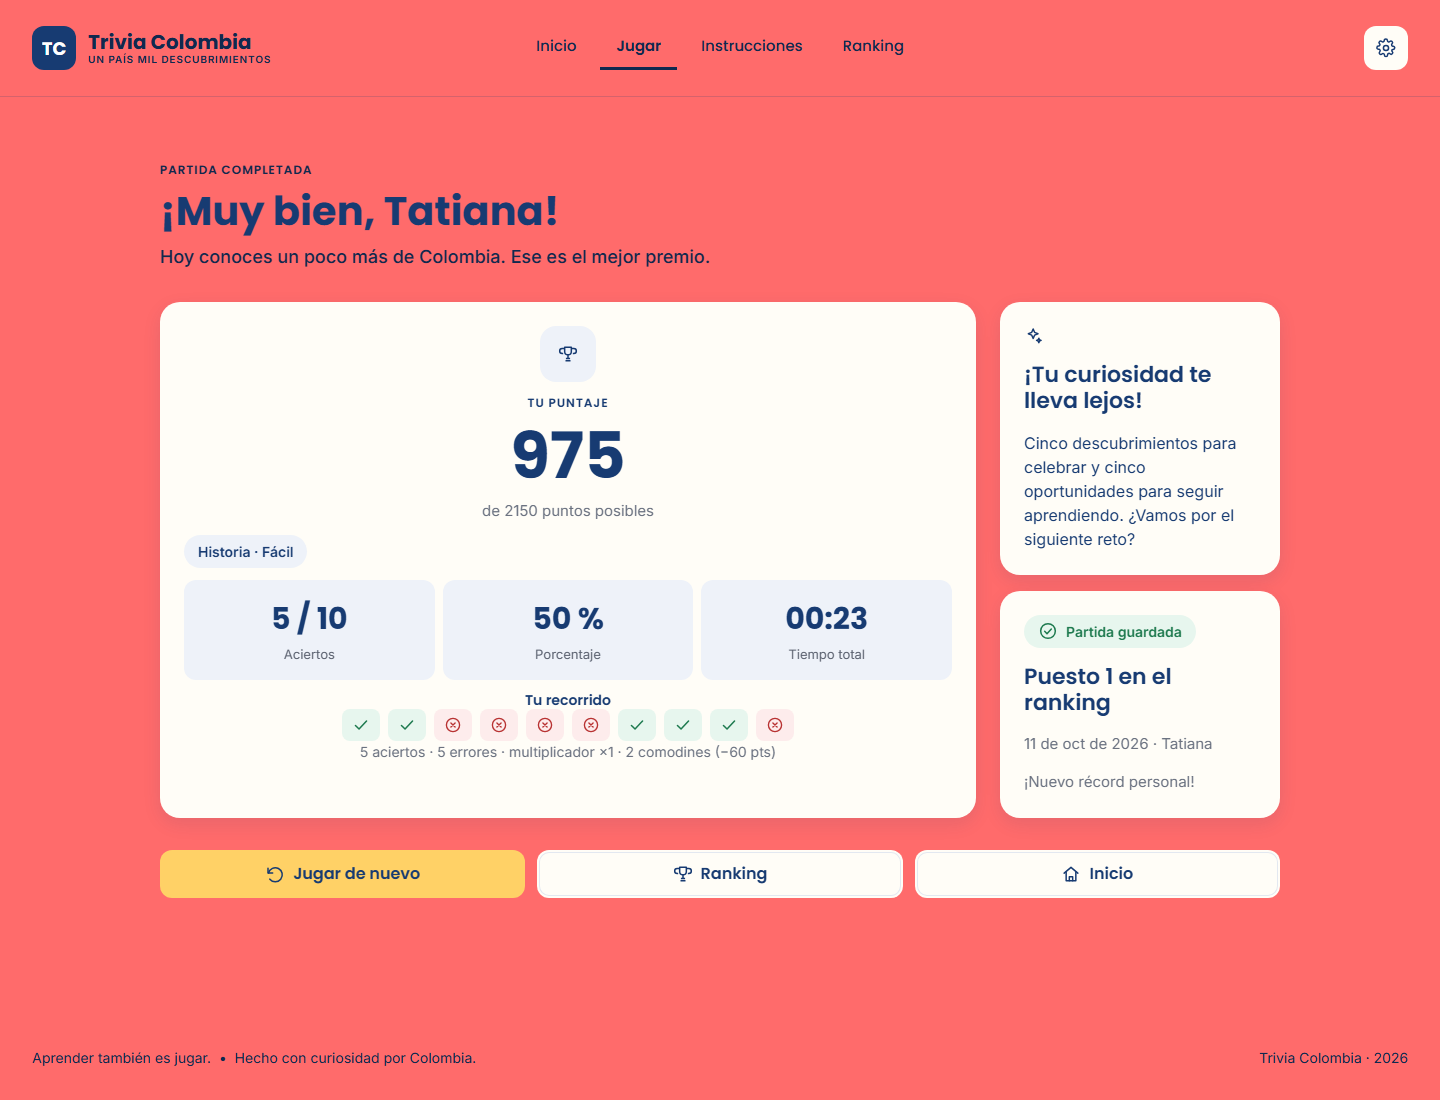
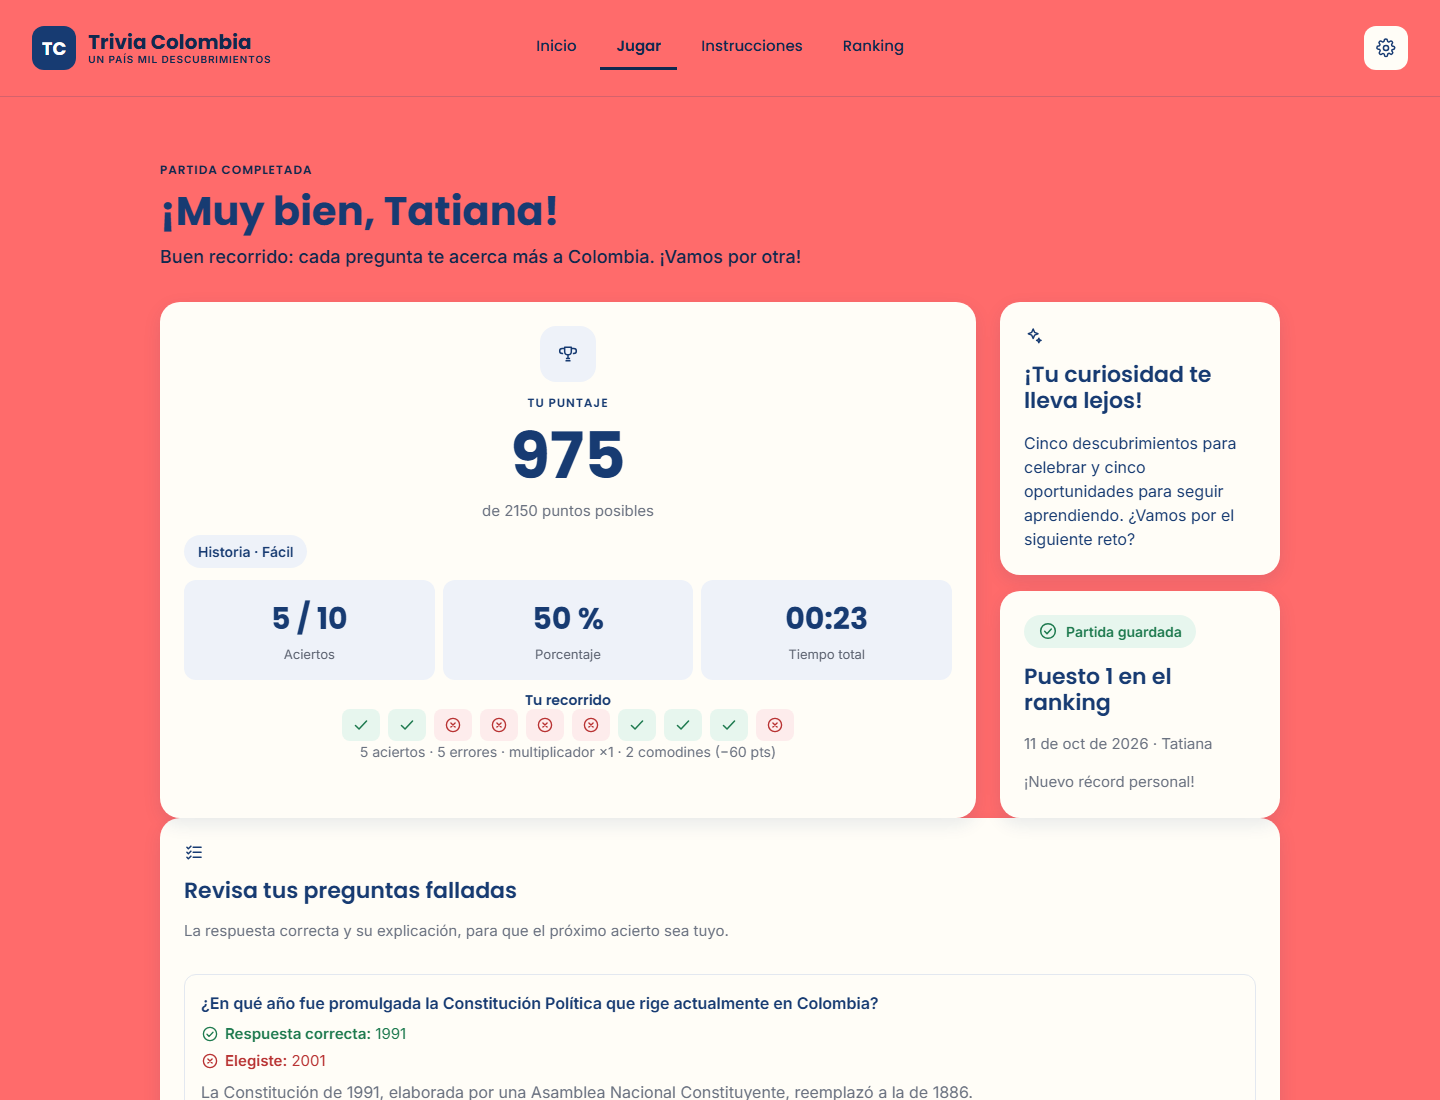
completar resultados, ranking y configuración

Changed region(s): [[0.0312, 0.7418, 0.9375, 1.0], [0.125, 0.2164, 0.5625, 0.2473]]

diff --git a/js/ui.js b/js/ui.js
@@ -48,6 +48,19 @@ const UI = {
     return palabras[numero] ?? String(numero);
   },
 
+  /**
+   * Mensaje motivador acorde al porcentaje de aciertos (variantes de texto no
+   * definidas en el mockup, registradas en docs/diseno/notas-mockups.md).
+   * Para el tramo "bueno" se conserva la frase del mockup.
+   */
+  mensajeDesempeno(porcentaje) {
+    if (porcentaje === 100) return '¡Impecable! Diez de diez: conoces Colombia como poquita gente.';
+    if (porcentaje >= 70) return 'Hoy conoces un poco más de Colombia. Ese es el mejor premio.';
+    if (porcentaje >= 40) return 'Buen recorrido: cada pregunta te acerca más a Colombia. ¡Vamos por otra!';
+    if (porcentaje > 0) return 'Fallar también enseña: revisa tus preguntas y vuelve a retar al país.';
+    return 'Hoy no sumaste aciertos, pero tu próxima pregunta ya te está esperando. ¡Inténtalo de nuevo!';
+  },
+
   /* ---------- 3. Configuración de partida ---------- */
 
   /** Tarjetas-opción de categoría (radio-card del mockup). */
@@ -325,7 +338,7 @@ const UI = {
     const porcentaje = resumen.total > 0 ? Math.round((resumen.aciertos / resumen.total) * 100) : 0;
 
     setTexto('titulo-resultado', `¡Muy bien, ${resumen.jugador}!`);
-    setTexto('resultado-mensaje', 'Hoy conoces un poco más de Colombia. Ese es el mejor premio.');
+    setTexto('resultado-mensaje', this.mensajeDesempeno(porcentaje));
     setTexto('resultado-puntaje', String(resumen.puntaje));
     setTexto('resultado-maximo', `de ${resumen.maximo} puntos posibles`);
     setTexto('resultado-combinacion', `${resumen.categoria === 'todas' ? 'Todas las categorías' : categoriaInfo.nombre} · ${dificultadInfo.nombre}`);
@@ -352,6 +365,33 @@ const UI = {
       ? ` · ${resumen.comodinesUsados} ${resumen.comodinesUsados === 1 ? 'comodín' : 'comodines'} (−${resumen.penalizacionComodines} pts)`
       : '';
     setTexto('resultado-desglose', `${resumen.aciertos} aciertos · ${errores} errores · multiplicador ×${mult}${comodines}`);
+
+    // Revisión de preguntas falladas: usa el detalle que el motor dejó en el
+    // resumen (id, enunciado, elegida, correcta) + el banco PREGUNTAS.
+    // Si no hay falladas (partida perfecta) la tarjeta queda oculta.
+    const falladasTarjeta = document.getElementById('resultado-falladas-tarjeta');
+    const falladasContenedor = document.getElementById('resultado-falladas');
+    const falladas = Array.isArray(resumen.falladas) ? resumen.falladas : [];
+    if (falladasTarjeta && falladasContenedor) {
+      falladasTarjeta.hidden = falladas.length === 0;
+      falladasContenedor.innerHTML = falladas.map((fallada) => {
+        const pregunta = PREGUNTAS.find((p) => p.id === fallada.id);
+        const opciones = pregunta ? pregunta.opciones : [];
+        const textoDe = (indice) => (typeof opciones[indice] === 'string' ? this.esc(opciones[indice]) : `Opción ${Number(indice) + 1}`);
+        const agotado = fallada.elegida === null || fallada.elegida === undefined;
+        const explicacion = pregunta && pregunta.explicacion ? `<p class="fallada__explicacion">${this.esc(pregunta.explicacion)}</p>` : '';
+        return `
+          <li class="fallada">
+            <p class="fallada__enunciado">${this.esc(fallada.enunciado)}</p>
+            <p class="fallada__opciones">
+              <span class="fallada__correcta">${this.icono('i-circulo-check')}<span><strong>Respuesta correcta:</strong> ${textoDe(fallada.correcta)}</span></span>
+              <span class="fallada__elegida">${this.icono('i-circulo-x')}<span><strong>${agotado ? 'Sin respuesta' : 'Elegiste'}:</strong> ${agotado ? 'se agotó el tiempo' : textoDe(fallada.elegida)}</span></span>
+            </p>
+            ${explicacion}
+          </li>`;
+      }).join('');
+    }
+
     setTexto('resultado-mensaje-lateral',
       `${this.enPalabra(resumen.aciertos)} descubrimientos para celebrar y ${this.enPalabra(errores).toLowerCase()} oportunidades para seguir aprendiendo. ¿Vamos por el siguiente reto?`);
     setTexto('resultado-puesto', resumen.puesto ? `Puesto ${resumen.puesto} en el ranking` : 'Fuera del top 10 del ranking');

diff --git a/tests/e2e-cuerpo.js b/tests/e2e-cuerpo.js
@@ -258,6 +258,10 @@
     pasar('Puesto en el ranking', texto('#resultado-puesto').includes('Puesto'), texto('#resultado-puesto'));
     pasar('Récord personal', texto('#resultado-record').includes('récord'), texto('#resultado-record'));
     pasar('Fecha y jugador', texto('#resultado-fecha').includes('Tatiana'), texto('#resultado-fecha'));
+    pasar('Mensaje motivador acorde al desempeño (50 %)', texto('#resultado-mensaje').includes('pregunta'), texto('#resultado-mensaje'));
+    pasar('Revisión de falladas visible con las 5 incorrectas', visible('#resultado-falladas-tarjeta') && $$('#resultado-falladas .fallada').length === 5, `${$$('#resultado-falladas .fallada').length} revisadas`);
+    pasar('Cada fallada muestra correcta y explicación', $$('#resultado-falladas .fallada__correcta').length === 5 && $$('#resultado-falladas .fallada__explicacion').every((p) => p.textContent.trim().length > 10));
+    pasar('La pregunta agotada aparece como "Sin respuesta"', texto('#resultado-falladas').includes('Sin respuesta'), '');
 
     /* Modo captura (window.__E2E_CAPTURA): la partida terminada queda visible
        en Resultado y aquí se corta el recorrido. */
@@ -297,6 +301,22 @@
     pasar('Salir cancela y vuelve a configuración', visible('[data-pantalla="configuracion-partida"]') && J.estado === null);
     await cambiarHash('#ranking');
     pasar('La partida cancelada NO se guardó', $$('#ranking-tabla tbody tr').length === 1, `${$$('#ranking-tabla tbody tr').length} filas`);
+
+    /* ---- 16. Configuración general ---- */
+    paso('16. Configuración general');
+    await cambiarHash('#configuracion');
+    pasar('Pantalla de configuración visible', visible('[data-pantalla="configuracion"]'));
+    pasar('Sonido activado y reflejado en el interruptor', $('#pref-sonido').checked === true && texto('#sonido-estado') === 'Activado', texto('#sonido-estado'));
+    $('#tema-oscuro').click();
+    await esperar(60);
+    pasar('Cambiar a tema oscuro aplica data-tema', document.documentElement.getAttribute('data-tema') === 'oscuro' && $('#tema-oscuro').checked, document.documentElement.getAttribute('data-tema'));
+    $('#pref-sonido').click();
+    await esperar(60);
+    pasar('Desactivar sonido actualiza interruptor y estado', $('#pref-sonido').checked === false && texto('#sonido-estado') === 'Desactivado', texto('#sonido-estado'));
+    pasar('Resumen de preferencias actualizado', texto('#preferencias-resumen').includes('desactivado') && texto('#preferencias-resumen').includes('oscuro'), texto('#preferencias-resumen'));
+    click($('[data-pantalla="configuracion"] aside [data-ir="inicio"]'));
+    await esperar(150);
+    pasar('Navegación de regreso al inicio desde Configuración', visible('[data-pantalla="inicio"]'));
 
     finalizar();
   };

diff --git a/css/styles.css b/css/styles.css
@@ -771,6 +771,25 @@ table { border-collapse: collapse; }
 .recorrido__item--error { background: var(--tinte-rojo); color: var(--error-texto); }
 .recorrido__item .icono { width: 18px; height: 18px; }
 
+/* Revisión de preguntas falladas (Resultado): enunciado, correcta, elegida y explicación */
+.lista-falladas { list-style: none; margin: var(--esp-4) 0 0; padding: 0; display: grid; gap: var(--esp-3); }
+.fallada {
+  display: grid;
+  gap: var(--esp-2);
+  min-width: 0;
+  padding: var(--esp-4);
+  border: 1px solid var(--borde);
+  border-radius: var(--radio-mini);
+  background: var(--superficie);
+}
+.fallada__enunciado { margin: 0; font-weight: 600; overflow-wrap: anywhere; }
+.fallada__opciones { display: grid; gap: var(--esp-1); margin: 0; font-size: 0.9375rem; }
+.fallada__correcta, .fallada__elegida { display: flex; align-items: flex-start; gap: 6px; overflow-wrap: anywhere; }
+.fallada__correcta .icono, .fallada__elegida .icono { flex: none; width: 18px; height: 18px; margin-top: 2px; }
+.fallada__correcta { color: var(--acierto-texto); }
+.fallada__elegida { color: var(--error-texto); }
+.fallada__explicacion { margin: 0; color: var(--texto-secundario); overflow-wrap: anywhere; }
+
 /* Ranking: la tabla se adapta a tarjetas en móvil y vuelve a tabla en tableta.
    Tarjeta móvil: [pos] [jugador ........ puntaje] / [categoría ...... fecha] */
 .tabla { width: 100%; }

diff --git a/index.html b/index.html
@@ -470,6 +470,14 @@
               </section>
             </aside>
           </div>
+
+          <!-- Revisión de preguntas falladas (ui.js.mostrarResultado; solo si hay) -->
+          <section class="tarjeta" id="resultado-falladas-tarjeta" aria-labelledby="titulo-falladas" hidden>
+            <span class="tarjeta__icono"><svg class="icono" aria-hidden="true"><use href="#i-lista"></use></svg></span>
+            <h2 class="tarjeta__titulo" id="titulo-falladas">Revisa tus preguntas falladas</h2>
+            <p class="texto-secundario">La respuesta correcta y su explicación, para que el próximo acierto sea tuyo.</p>
+            <ol class="lista-falladas" id="resultado-falladas"></ol>
+          </section>
         </div>
 
         <div class="acciones rejilla--acciones">

diff --git a/README.md b/README.md
@@ -129,7 +129,7 @@ Orden de carga de los scripts (por dependencias): `preguntas` → `almacenamient
 - [x] Etapa 1 — Estructura inicial.
 - [x] Etapa 2 — Maquetación HTML/CSS de las 8 pantallas (este commit).
 - [x] Etapa 3 — Banco de 150 preguntas y motor del juego (`js/juego.js`) conectado a `ui.js`.
-- [x] Etapa 4 — Persistencia completa (`js/almacenamiento.js`: validación, deduplicado, estadísticas y preferencias, con pruebas). Quedan de la etapa 4: sonidos, tema oscuro y revisión de preguntas falladas.
+- [x] Etapa 4 — Persistencia completa (`js/almacenamiento.js`: validación, deduplicado, estadísticas y preferencias, con pruebas) y revisión de preguntas falladas en Resultado. Quedan de la etapa 4: sonidos y revisión del tema oscuro.
 - [ ] Etapa 5 — Pruebas, ajustes frente al diseño, despliegue en Vercel y video.
 
 ## Verificación de la maquetación (etapa 2)
@@ -148,7 +148,7 @@ Orden de carga de los scripts (por dependencias): `preguntas` → `almacenamient
 
 ## Verificación de la integración (etapa 3)
 
-Partida completa probada de principio a fin con `node tests/e2e-navegador.js` (80 comprobaciones, 0 fallos): inicio y validación del nombre → configuración de categoría y dificultad → las 10 preguntas con temporizador, progreso y selección → estados correcto/incorrecto con explicación → comodines 50/50 y +10 s → pantalla de resultado → ranking y estadísticas → jugar de nuevo y salir sin guardar. Cubre además doble clic en "Siguiente", triple clic en una opción (una sola respuesta registrada), tiempo agotado, enlaces profundos con partida en curso, foco de teclado al cambiar de pantalla y que el reloj se pausa al salir de la pantalla de juego.
+Partida completa probada de principio a fin con `node tests/e2e-navegador.js` (la suite actual tiene 90 comprobaciones, 0 fallos): inicio y validación del nombre → configuración de categoría y dificultad → las 10 preguntas con temporizador, progreso y selección → estados correcto/incorrecto con explicación → comodines 50/50 y +10 s → pantalla de resultado → ranking y estadísticas → jugar de nuevo y salir sin guardar. Cubre además doble clic en "Siguiente", triple clic en una opción (una sola respuesta registrada), tiempo agotado, enlaces profundos con partida en curso, foco de teclado al cambiar de pantalla y que el reloj se pausa al salir de la pantalla de juego.
 
 **Errores encontrados y corregidos durante la etapa 3:**
 
@@ -177,13 +177,21 @@ No se hallaron fallos de integración entre `app.js`, `juego.js`, `ui.js` e `ind
 - `guardarEnRanking(partida)` ahora devuelve `null` cuando el registro es inválido (antes guardaba lo que llegara). La firma y el significado de `null` en `app.js` ("no entró al top 10 o no se pudo guardar") no cambian.
 - No cambió ninguna firma de `juego.js` ni `ui.js`, y el formato de cada resultado guardado sigue siendo el del enunciado: nombre del jugador, puntaje, categoría, dificultad y fecha. No se guarda nada remoto ni datos personales adicionales.
 
+## Pantallas completadas (etapa 4)
+
+- **Resultado**: además del puntaje, aciertos, porcentaje y tiempo total del mockup, el mensaje de cabecera varía con el desempeño (`UI.mensajeDesempeno`) y la nueva sección "Revisa tus preguntas falladas" lista, para cada error, el enunciado, la respuesta correcta, la opción elegida —o "Sin respuesta" si se agotó el tiempo— y la explicación (datos de `resumen.falladas` + banco `PREGUNTAS`; la tarjeta se oculta sola con partida perfecta). Botones: jugar de nuevo, ranking e inicio.
+- **Ranking y estadísticas**: top 10 con posición, nombre, puntaje, categoría y fecha; podio 1-3 con fondo e ícono de medalla y fila propia resaltada; 4 tarjetas de estadísticas (partidas jugadas, aciertos + porcentaje, récord personal y mejor categoría); borrar con confirmación (también las estadísticas, según el mockup); estado vacío con acceso a configurar una partida.
+- **Configuración**: interruptor de sonido, tema claro/oscuro con vista previa, resumen de preferencias y navegación de vuelta al inicio. Ambas preferencias persisten: probado con recarga en `tests/almacenamiento.test.js` y sin recarga en el paso 16 del E2E.
+
+Los textos y estilos nuevos (variantes del mensaje de resultado y componentes `.fallada*`) están registrados en `docs/diseno/notas-mockups.md`, decisiones 6 y 7. No se introdujeron datos de ejemplo: todas las pantallas leen el motor y `js/almacenamiento.js`.
+
 ## Pruebas
 
 ```bash
 node tests/validar-preguntas.js    # banco: 150 preguntas, 30 por categoría, 10 por categoría × dificultad, ids únicos…
 node tests/motor-juego.test.js     # motor: puntaje, selección, temporizador (reloj falso), bloqueo de respuestas (58 pruebas)
 node tests/almacenamiento.test.js  # persistencia: guardar/leer, orden y top 10, duplicados, borrar, estadísticas y preferencias (34 pruebas)
-node tests/e2e-navegador.js        # recorrido completo: genera __e2e.html, lo sirve y lo juega en Chrome headless (80 comprobaciones)
+node tests/e2e-navegador.js        # recorrido completo: genera __e2e.html, lo sirve y lo juega en Chrome headless (90 comprobaciones)
 ```
 
 Los cuatro terminan con código de salida `0` cuando todo pasa. El E2E no necesita servidor aparte ni dependencias: usa el Chrome (o Edge) instalado, con tiempo virtual para que los 20 s de cada pregunta duren milisegundos reales. Si el navegador está en otra ruta, se indica con `CHROME_PATH="C:\ruta\chrome.exe" node tests/e2e-navegador.js`. Con `--captura=docs/capturas/resultado-final.png` hace una segunda pasada que se detiene en la pantalla de Resultado y guarda la captura.

diff --git a/docs/diseno/notas-mockups.md b/docs/diseno/notas-mockups.md
@@ -140,6 +140,14 @@ Estas notas son la referencia que usó la etapa 2 (maquetación HTML/CSS).
    correcta, "Ver resultado" en la última pregunta) son provisionales.
 5. La ilustración de Inicio y el panel de Configuración son imágenes de Figma: por ahora hay un
    marcador de posición en `assets/img/`.
+6. **Pantalla 6 (etapa 4)**: el mensaje de cabecera del resultado pasa a tener variantes según el
+   porcentaje de aciertos (`UI.mensajeDesempeno`): 100 %, ≥70 % (frase del mockup), ≥40 %, >0 % y
+   0 aciertos. El título "¡Muy bien, {Jugador}!" y el resto de la tarjeta no cambian.
+7. **Pantalla 6 (etapa 4)**: se añade la sección "Revisa tus preguntas falladas" (no existía en el
+   mockup): lista con enunciado, respuesta correcta, opción elegida —o "Sin respuesta" si se agotó
+   el tiempo— y explicación. Usa `resumen.falladas` del motor + el banco `PREGUNTAS`, y se oculta
+   automáticamente cuando la partida fue perfecta. Estilos nuevos `.fallada*` con los tokens de la
+   guía (sin colores nuevos).
 
 ## Correcciones tras la comparación visual (etapa 2)
 
